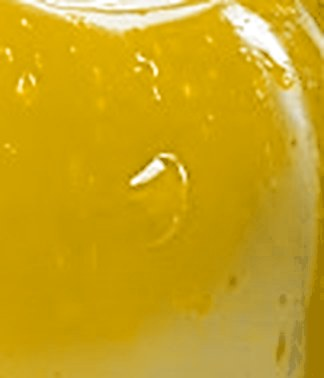
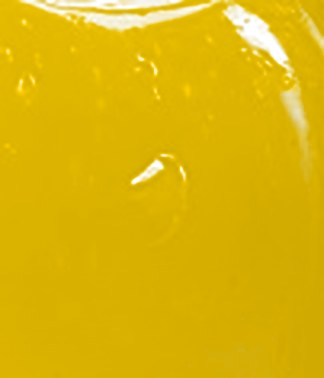
놀자! 노랑 체리 배경을 더 또렷하고 선명한 노랑으로
Claude-Session: https://claude.ai/code/session_01Q9nWZppKMZZvEmMGYXMXWm

diff --git a/eodiya/index.html b/eodiya/index.html
@@ -204,7 +204,7 @@
     /* 싸바?·여기야!·놀자! 배경: 체리 사진 확대 (빨강·파랑·노랑으로 색만 바꿈) */
     .mode[data-mode="ask"]  { background: linear-gradient(180deg, rgba(0,0,0,0) 35%, rgba(60,0,10,.35) 100%), url(../img/mode-cherry-red.jpg?v=2) center/cover, var(--mc); }
     .mode[data-mode="come"] { background: linear-gradient(180deg, rgba(0,0,0,0) 35%, rgba(0,15,50,.35) 100%), url(../img/mode-cherry-blue.jpg?v=2) center/cover, var(--mc); }
-    .mode[data-mode="play"] { background: url(../img/mode-cherry-yellow.jpg?v=2) center/cover, var(--mc); }
+    .mode[data-mode="play"] { background: url(../img/mode-cherry-yellow.jpg?v=3) center/cover, var(--mc); }
     .mode b, .mode span { text-shadow: 0 1px 4px rgba(0,0,0,.6); }
     /* 노랑 칸은 흰 글씨가 묻혀서 진한 갈색 글씨로 */
     .mode[data-mode="play"] b, .mode[data-mode="play"] span, .mode[data-mode="play"][aria-pressed="true"] b, .mode[data-mode="play"][aria-pressed="true"] span { color: #3D1F00; opacity: 1; text-shadow: 0 1px 3px rgba(255,240,170,.9); }
